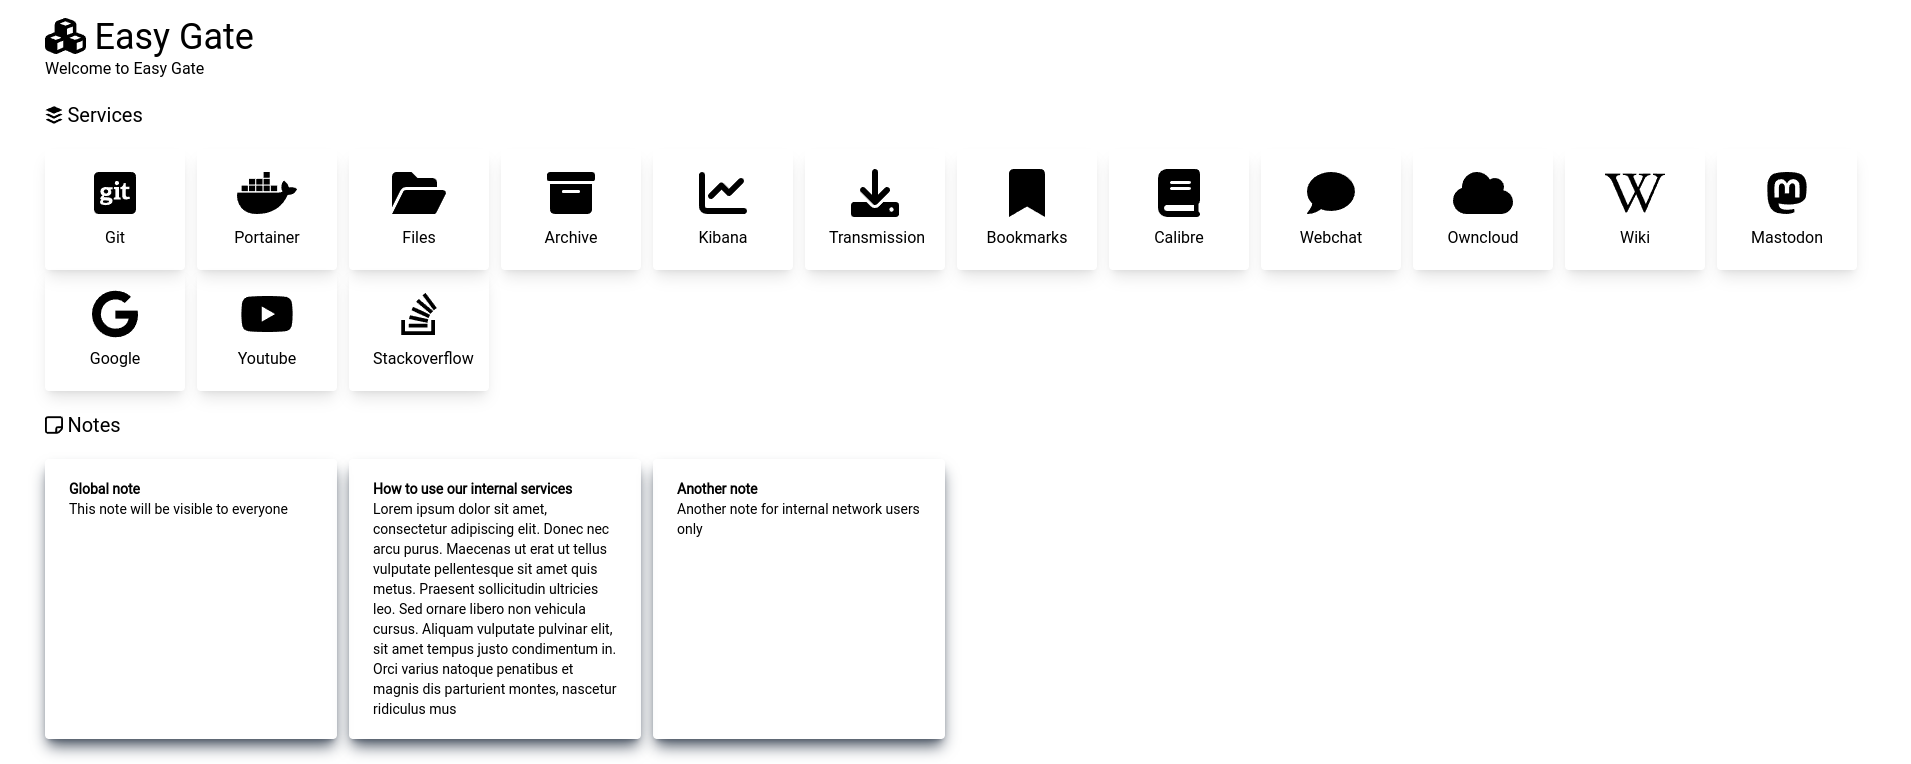
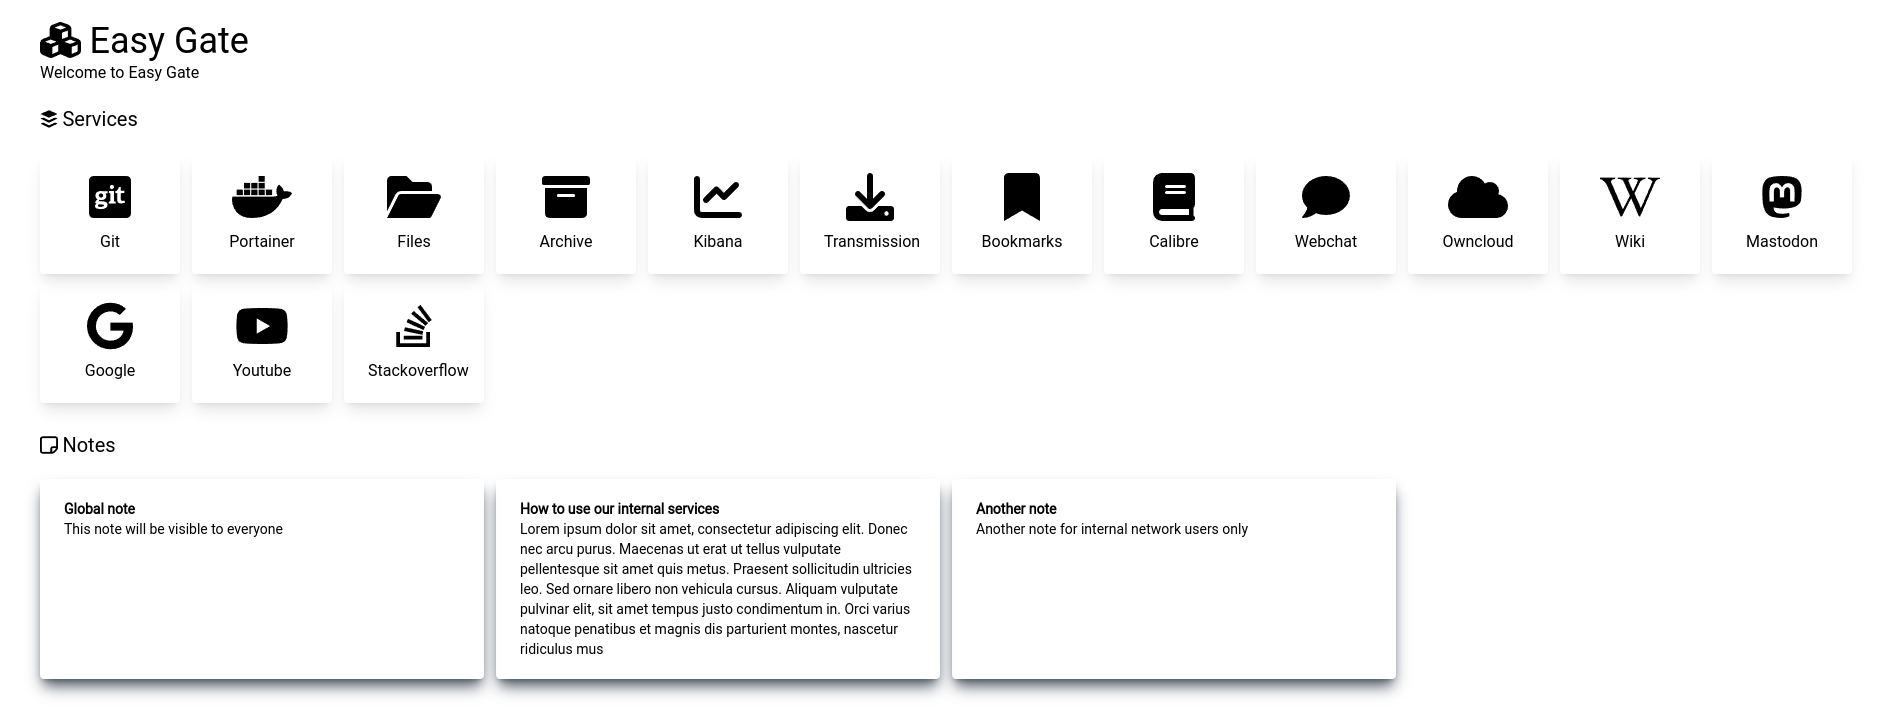
responsive template

diff --git a/web/src/App.js b/web/src/App.js
@@ -69,7 +69,7 @@ function App() {
           <h3 className="text-xl mt-5">
             <FontAwesomeIcon icon="fa-brands fa-buffer" /> Services
           </h3>
-          <div className="grid grid-cols-12 auto-cols-max mt-5">
+          <div className="grid grid-cols-1 md:grid-cols-6 lg:grid-cols-8 xl:grid-cols-12 mt-5">
             {data.services.map((service) => (
               <Service key={service.name} service={service} />
             ))}
@@ -81,7 +81,7 @@ function App() {
           <h3 className="text-xl mt-5">
             <FontAwesomeIcon icon="fa-regular fa-note-sticky" /> Notes
           </h3>
-          <div className="grid grid-cols-6 auto-cols-max mt-5">
+          <div className="grid grid-cols-1 md:grid-cols-1 lg:grid-cols-2 xl:grid-cols-4 mt-5">
             {data.notes.map((note) => (
               <Note key={note.title} note={note} />
             ))}

diff --git a/web/src/components/Service.js b/web/src/components/Service.js
@@ -33,7 +33,7 @@ function Service(props) {
     <div
       onClick={() => openService(props.service.url)}
       className="px-6 py-5 rounded overflow-hidden shadow-lg text-center
-      cursor-pointer hover:shadow-gray-600 mr-3">
+      cursor-pointer hover:shadow-gray-600 mr-3 mb-2">
       <FontAwesomeIcon icon={props.service.icon} className="fa-3x" />
       <h3 className="mt-2">{props.service.name}</h3>
     </div>

diff --git a/web/src/components/Note.js b/web/src/components/Note.js
@@ -26,7 +26,7 @@ function Note(props) {
   return (
     <div
       className="px-6 py-5 rounded overflow-hidden shadow-lg 
-        text-left shadow-gray-600 mr-3">
+        text-left shadow-gray-600 mr-3 mb-2">
       <h3 className="text-sm font-semibold">{props.note.name}</h3>
       <p className="text-sm">{props.note.text}</p>
     </div>
